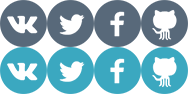
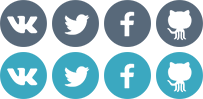
Fix spritesheet for IE8 and PixelPerfect changes

diff --git a/app/css/main.css b/app/css/main.css
@@ -38,10 +38,10 @@ body {
 	position: relative;
 }
 .page-header {
-	height: 119px;
+	height: 116px;
 	background: #eff3f7;	
 	position: relative;
-	margin-bottom: 39px;
+	margin-bottom: 42px;
 }
 .page-header .header-logo-link{
 	position: absolute;
@@ -54,7 +54,7 @@ body {
 }
 .page-header .socials {
 	position: absolute;
-	right: -16;
+	right: -16px;
 	top: 35px;
 }
 /* Шапка конец */
@@ -87,10 +87,10 @@ body {
 	background-position: -47px 0px;
 }
 .socials .socials-link.vk { background-position:  0px 0px;}
-.socials .socials-link.tw { background-position: -47px 0px;}
-.socials .socials-link.fb { background-position: -94px 0px;}
-.socials .socials-link.gt { background-position: -141px 0px;}
-.socials .socials-link:hover {background-position-y: -47px;}
+.socials .socials-link.tw { background-position: -52px 0px;}
+.socials .socials-link.fb { background-position: -104px 0px;}
+.socials .socials-link.gt { background-position: -156px 0px;}
+.socials .socials-link:hover {background-position-y: -52px;}
 /* Блок социальных ссылок -конец */
 
 
